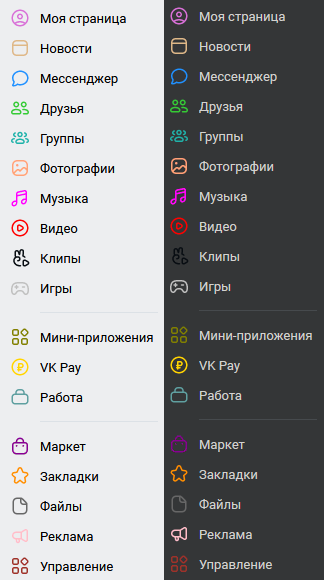
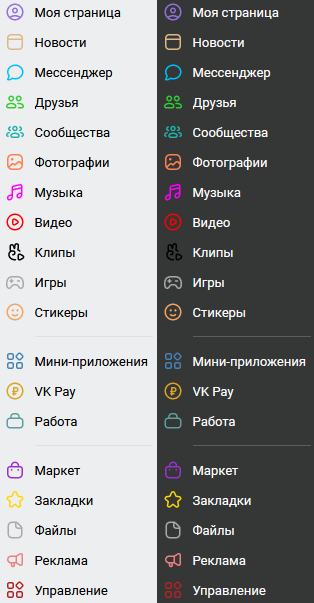
Setting colors in an easier way. The style of the new button "Stickers" was added.

diff --git a/Colored icons.css b/Colored icons.css
@@ -1,78 +1,76 @@
 /* Profile page */
-#l_pr a div svg {
-    filter: brightness(0) saturate(100%) invert(52%) sepia(61%) saturate(482%) hue-rotate(252deg) brightness(96%) contrast(91%);
+#l_pr .LeftNav__icon {
+    color: MediumPurple;
 }
 /* News feed */
-#l_nwsf a div svg {
-    filter: brightness(0) saturate(100%) invert(84%) sepia(7%) saturate(1842%) hue-rotate(347deg) brightness(91%) contrast(91%);
+#l_nwsf .LeftNav__icon {
+    color: BurlyWood;
 }
 /* Messenger */
-#l_msg a div svg {
-    filter: brightness(0) saturate(100%) invert(44%) sepia(65%) saturate(3017%) hue-rotate(194deg) brightness(104%) contrast(101%)
+#l_msg .LeftNav__icon {
+    color: DeepSkyBlue;
 }
 /* Friends */
-#l_fr a div svg {
-    filter: brightness(0) saturate(100%) invert(57%) sepia(98%) saturate(405%) hue-rotate(71deg) brightness(93%) contrast(91%)
+#l_fr .LeftNav__icon {
+    color: LimeGreen;
 }
 /* Groups */
-#l_gr a div svg {
-    filter: brightness(0) saturate(100%) invert(48%) sepia(74%) saturate(484%) hue-rotate(128deg) brightness(107%) contrast(81%);
+#l_gr .LeftNav__icon {
+    color: LightSeaGreen;
 }
 /* Photos */
-#l_ph a div svg {
-    filter: brightness(0) saturate(100%) invert(84%) sepia(13%) saturate(3835%) hue-rotate(308deg) brightness(102%) contrast(112%);
+#l_ph .LeftNav__icon {
+    color: Coral;
 }
 /* Music */
-#l_aud a div svg {
-    filter: brightness(0) saturate(100%) invert(48%) sepia(95%) saturate(7255%) hue-rotate(292deg) brightness(109%) contrast(134%)
+#l_aud .LeftNav__icon {
+    color: Fuchsia;
 }
 /* Video */
-#l_vid a div svg {
-    filter: brightness(0) saturate(100%) invert(11%) sepia(96%) saturate(7454%) hue-rotate(1deg) brightness(96%) contrast(111%)
+#l_vid .LeftNav__icon {
+    color: Red;
 }
 /* Mini-apps */
-#l_mini_apps a div svg {
-    filter: brightness(0) saturate(100%) invert(39%) sepia(88%) saturate(1107%) hue-rotate(38deg) brightness(90%) contrast(101%)
+#l_mini_apps .LeftNav__icon {
+    color: SteelBlue;
 }
 /* Market */
-#l_mk a div svg {
-    filter: brightness(0) saturate(100%) invert(11%) sepia(44%) saturate(6016%) hue-rotate(289deg) brightness(119%) contrast(118%);
+#l_mk .LeftNav__icon {
+    color: DarkOrchid;
 }
 /* Favorites */
-#l_fav a div svg {
-    filter: brightness(0) saturate(100%) invert(53%) sepia(94%) saturate(1532%) hue-rotate(1deg) brightness(101%) contrast(104%)
+#l_fav .LeftNav__icon {
+    color: Gold;
 }
 /* Files */
-#l_doc a div svg {
-    filter: brightness(0) saturate(100%) invert(42%) sepia(1%) saturate(0%) hue-rotate(68deg) brightness(93%) contrast(86%)
+#l_doc .LeftNav__icon {
+    color: DarkGray;
 }
 /* Clips */
-#l_svd a div svg {
-    filter: brightness(10%)
+#l_svd .LeftNav__icon {
+    color: Black;
 }
 /* Games */
-#l_ap a div svg {
-    filter: brightness(0) saturate(100%) invert(91%) sepia(0%) saturate(0%) hue-rotate(159deg) brightness(88%) contrast(84%);
+#l_ap .LeftNav__icon {
+    color: DarkGray
+}
+/* Stickers */
+#l_stickers .LeftNav__icon {
+    color: SandyBrown;
 }
 /* VK Pay */
-#l_vkp a div svg {
-    filter: brightness(0) saturate(100%) invert(71%) sepia(91%) saturate(473%) hue-rotate(356deg) brightness(103%) contrast(108%);
+#l_vkp .LeftNav__icon {
+    color: Goldenrod;
 }
 /* Job */
-#l_job a div svg {
-    filter: brightness(0) saturate(100%) invert(61%) sepia(45%) saturate(305%) hue-rotate(133deg) brightness(86%) contrast(93%);
+#l_job .LeftNav__icon {
+    color: CadetBlue;
 }
 /* Ads */
-#l_ads a div svg {
-    filter: brightness(0) saturate(100%) invert(79%) sepia(13%) saturate(1037%) hue-rotate(305deg) brightness(103%) contrast(104%);
+#l_ads .LeftNav__icon {
+    color: LightCoral
 }
 /* Manage */
-#l_apm a div svg {
-    filter: brightness(0) saturate(100%) invert(17%) sepia(82%) saturate(2022%) hue-rotate(343deg) brightness(104%) contrast(86%);
+#l_apm .LeftNav__icon {
+    color: FireBrick;
 }
-
-/*
-    Choose your own colors through CSS filters:
-    https://codepen.io/sosuke/pen/Pjoqqp
-    Don't forget to prepend "brightness(0) saturate(100%)" for correct coloring
-*/
